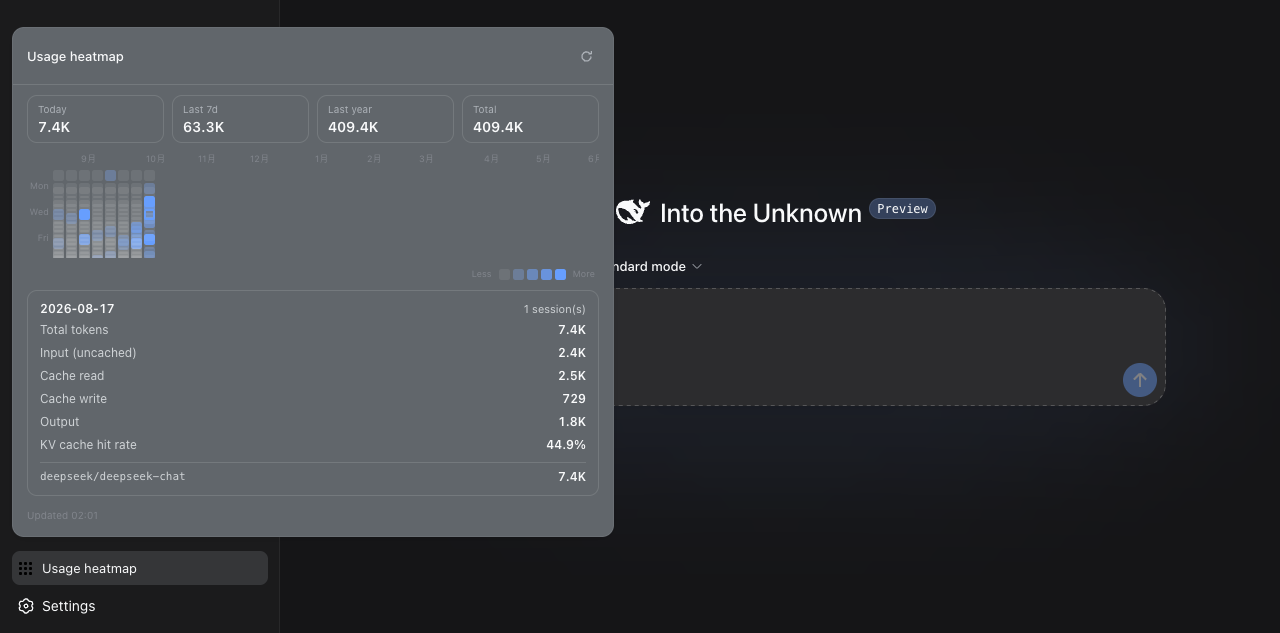
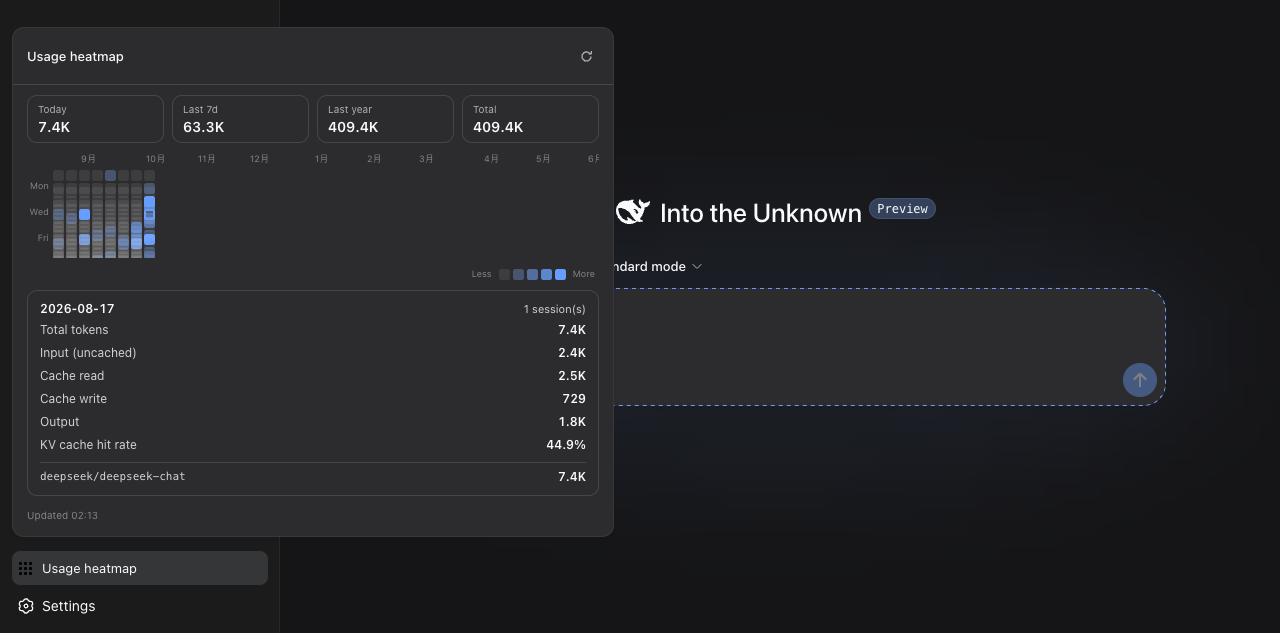
fix: popover surfaces used --dsw-alias-bg-overlay (the mask/scrim color, rgb(97,102,107)) as panel background, washing both popovers gray; switch to --dsw-alias-bg-layer-2 (native dialog surface) and re-capture screenshots

diff --git a/src/client/style.js b/src/client/style.js
@@ -21,7 +21,7 @@ export const CSS = `
 .dcl-ring-bg{fill:none;stroke:var(--dsw-alias-border-l2);stroke-width:2}
 .dcl-ring-fg{fill:none;stroke:var(--dsw-alias-state-business-primary);stroke-width:2;transition:stroke-dasharray .3s ease}
 
-.dcl-panel{position:absolute;top:calc(100% + 6px);right:0;z-index:40;width:340px;max-width:calc(100vw - 24px);display:flex;flex-direction:column;border:1px solid var(--dsw-alias-border-l1);border-radius:12px;background:var(--dsw-alias-bg-overlay,var(--dsw-alias-bg-base));box-shadow:var(--dsw-shadow-lv2,0 8px 24px rgba(0,0,0,.16));overflow:hidden}
+.dcl-panel{position:absolute;top:calc(100% + 6px);right:0;z-index:40;width:340px;max-width:calc(100vw - 24px);display:flex;flex-direction:column;border:1px solid var(--dsw-alias-border-l1);border-radius:12px;background:var(--dsw-alias-bg-layer-2,var(--dsw-alias-bg-base));box-shadow:var(--dsw-shadow-lv2,0 8px 24px rgba(0,0,0,.16));overflow:hidden}
 .dcl-head{display:flex;align-items:center;justify-content:space-between;min-height:40px;padding:8px 14px;border-bottom:1px solid var(--dsw-alias-border-l2);flex:none}
 .dcl-title{color:var(--dsw-alias-label-primary);font-size:13px;font-weight:500;line-height:20px}
 .dcl-body{padding:8px 14px 14px;overflow-y:auto;max-height:60vh;display:flex;flex-direction:column;gap:12px;--dsh-scrollbar-thumb:var(--dsw-alias-scrollbar-bg-l2);--dsh-scrollbar-thumb-hover:var(--dsw-alias-scrollbar-hover-l2)}
@@ -62,7 +62,7 @@ export const CSS = `
 .dcl-iconbtn{display:inline-flex;align-items:center;justify-content:center;width:26px;height:26px;border:none;border-radius:6px;background:transparent;color:var(--dsw-alias-label-tertiary);cursor:pointer}
 .dcl-iconbtn:hover{color:var(--dsw-alias-label-secondary);background:var(--dsw-alias-interactive-bg-hover)}
 
-.dcl-heatpanel{position:fixed;left:12px;bottom:96px;z-index:40;width:600px;max-width:calc(100vw - 24px);display:flex;flex-direction:column;border:1px solid var(--dsw-alias-border-l1);border-radius:12px;background:var(--dsw-alias-bg-overlay,var(--dsw-alias-bg-base));box-shadow:var(--dsw-shadow-lv2,0 8px 24px rgba(0,0,0,.16));overflow:hidden}
+.dcl-heatpanel{position:fixed;left:12px;bottom:96px;z-index:40;width:600px;max-width:calc(100vw - 24px);display:flex;flex-direction:column;border:1px solid var(--dsw-alias-border-l1);border-radius:12px;background:var(--dsw-alias-bg-layer-2,var(--dsw-alias-bg-base));box-shadow:var(--dsw-shadow-lv2,0 8px 24px rgba(0,0,0,.16));overflow:hidden}
 .dcl-heatbody{padding:10px 14px 14px;overflow-y:auto;max-height:70vh;display:flex;flex-direction:column;gap:10px;--dsh-scrollbar-thumb:var(--dsw-alias-scrollbar-bg-l2);--dsh-scrollbar-thumb-hover:var(--dsw-alias-scrollbar-hover-l2)}
 .dcl-heaterror{display:flex;justify-content:space-between;align-items:flex-start;gap:8px;padding:7px 8px;border-radius:8px;background:var(--dsw-alias-interactive-bg-hover-danger);color:var(--dsw-alias-state-error-primary);font-size:12px;line-height:18px}
 .dcl-retry{border:none;background:none;color:inherit;font:inherit;cursor:pointer;flex:none;padding:0;text-decoration:underline}
